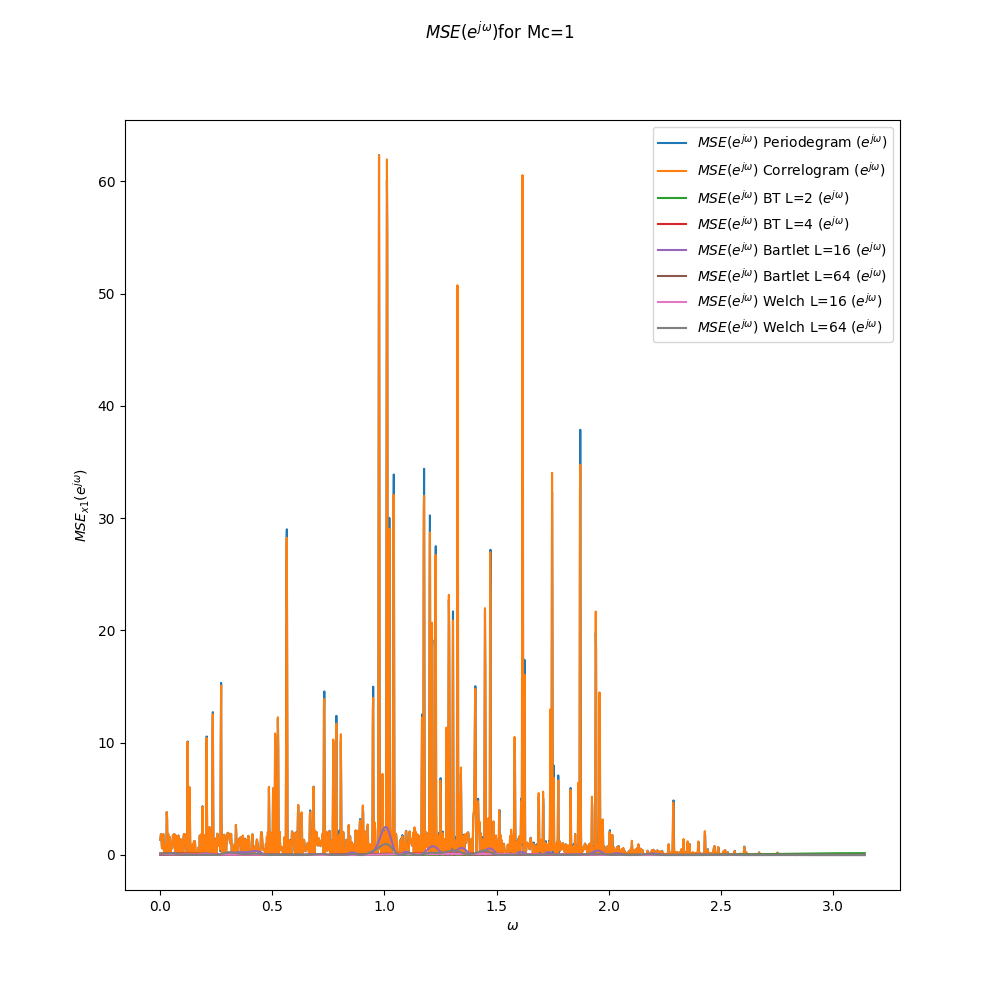
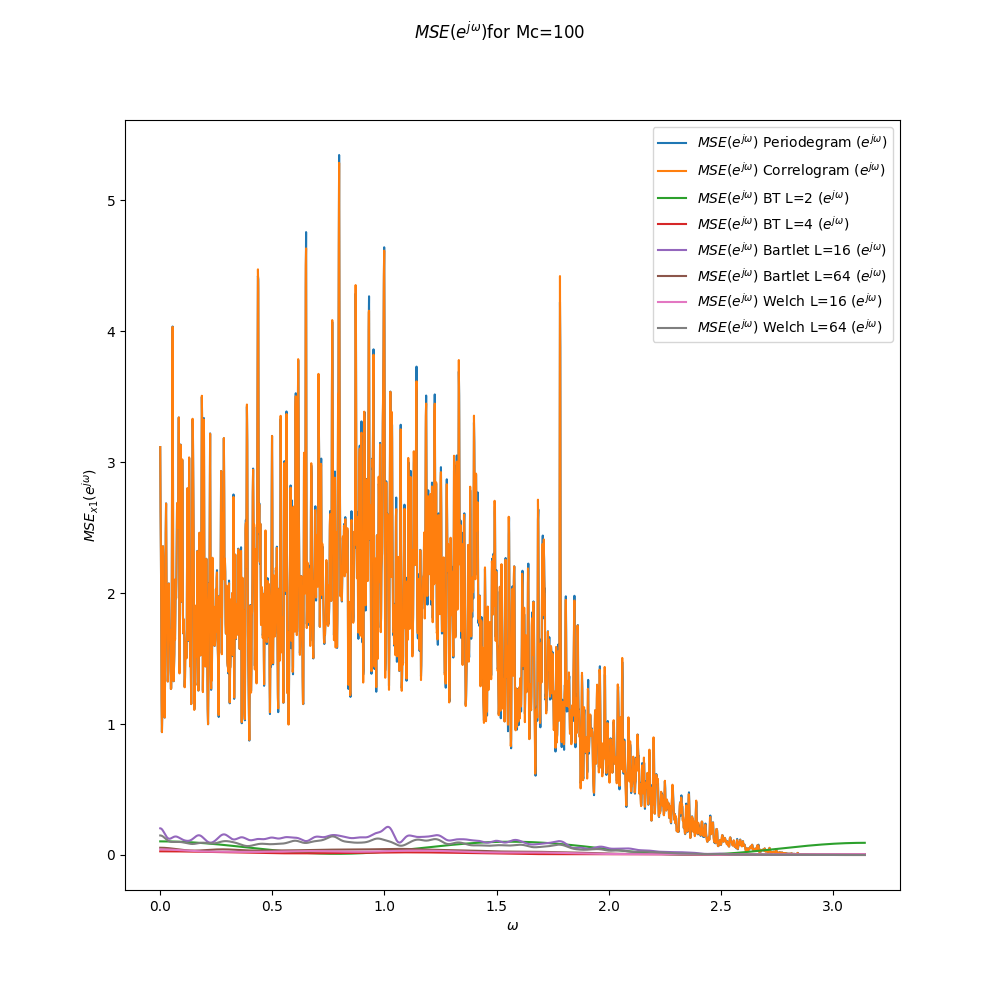
done

Changed region(s): [[0.155, 0.155, 0.868, 0.868], [0.434, 0.0, 0.589, 0.062], [0.062, 0.465, 0.124, 0.558]]

diff --git a/code_ex_1/spectral_estimation.py b/code_ex_1/spectral_estimation.py
@@ -58,7 +58,7 @@ def gen_signals(sigma_w1=np.sqrt(1/26), n1=1024, sigma_w2=np.sqrt(0.86), n2=1024
 #     return x1, x2
 
 
-Mc = 1
+Mc = 100
 Sx1_per = np.empty((Mc, 2049))
 Sx1_cor = np.empty((Mc, 2049))
 Sx1_bartlet_64 = np.empty((Mc, 2049))

diff --git a/code_ex_1/utils.py b/code_ex_1/utils.py
@@ -30,7 +30,7 @@ def get_MSE(var, bias):
 
 
 def total_bias(B):
-    return np.sum(B)/len(B)
+    return np.sum(B**2)/len(B)
 
 
 def total_var(var):
